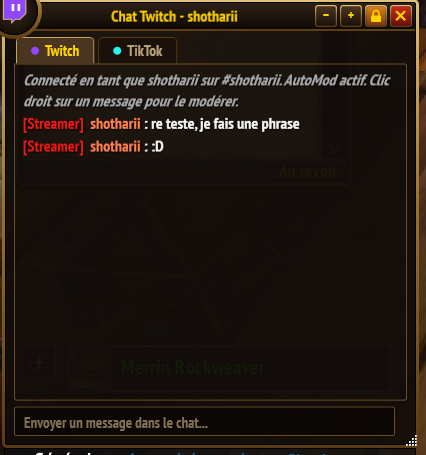
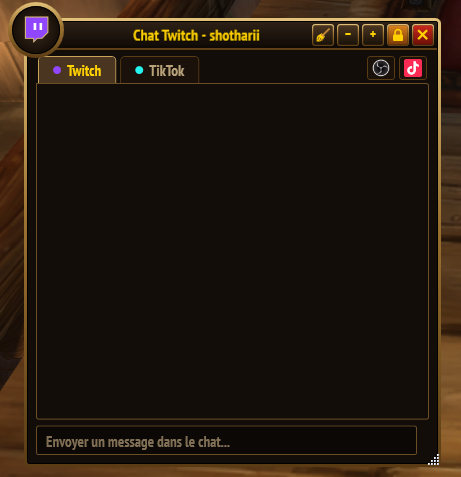
Nouvelle capture de l'onglet Twitch

Changed region(s): [[0.0, 0.0, 1.0, 1.0]]

diff --git a/README.md b/README.md
@@ -29,7 +29,7 @@ Créé par **Shotharii** — viens me voir en live :
 
 <table>
 <tr>
-<td align="center"><img src="captures/onglet-twitch.png" width="380" alt="Onglet Twitch"><br><b>Onglet Twitch</b> : le chat avec modération et AutoMod</td>
+<td align="center"><img src="captures/onglet-twitch.png" width="380" alt="Onglet Twitch"><br><b>Onglet Twitch</b> : modération, AutoMod, bouton pour vider le chat et icônes OBS / TikTok LIVE Studio</td>
 <td align="center"><img src="captures/onglet-tiktok.png" width="380" alt="Onglet TikTok"><br><b>Onglet TikTok</b> : le chat de ton LIVE TikTok</td>
 </tr>
 </table>
